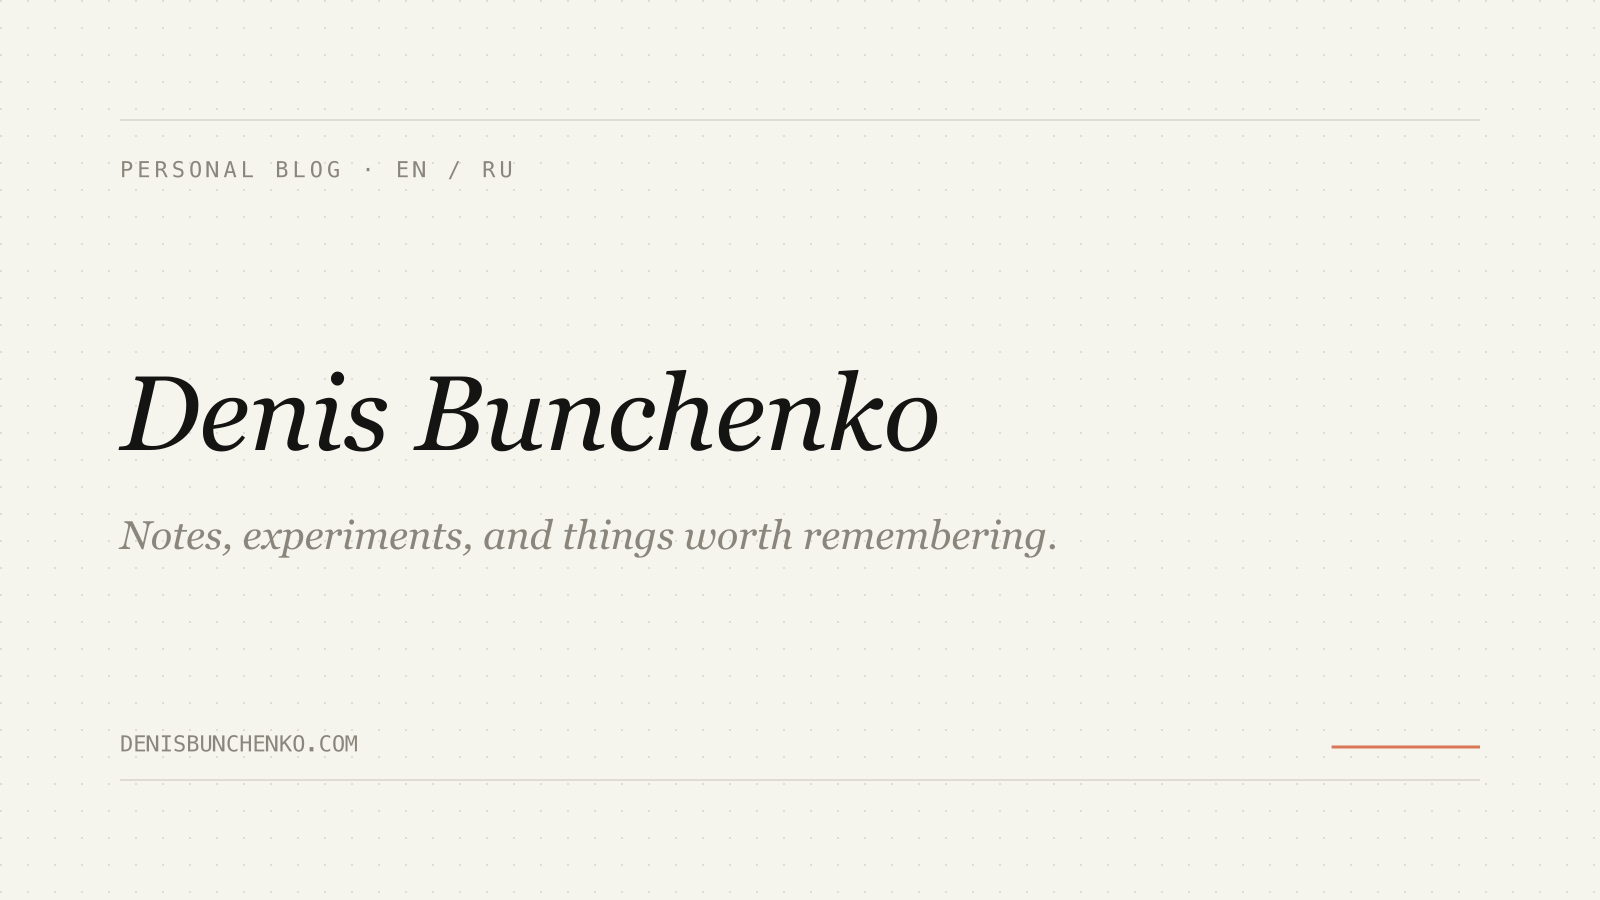
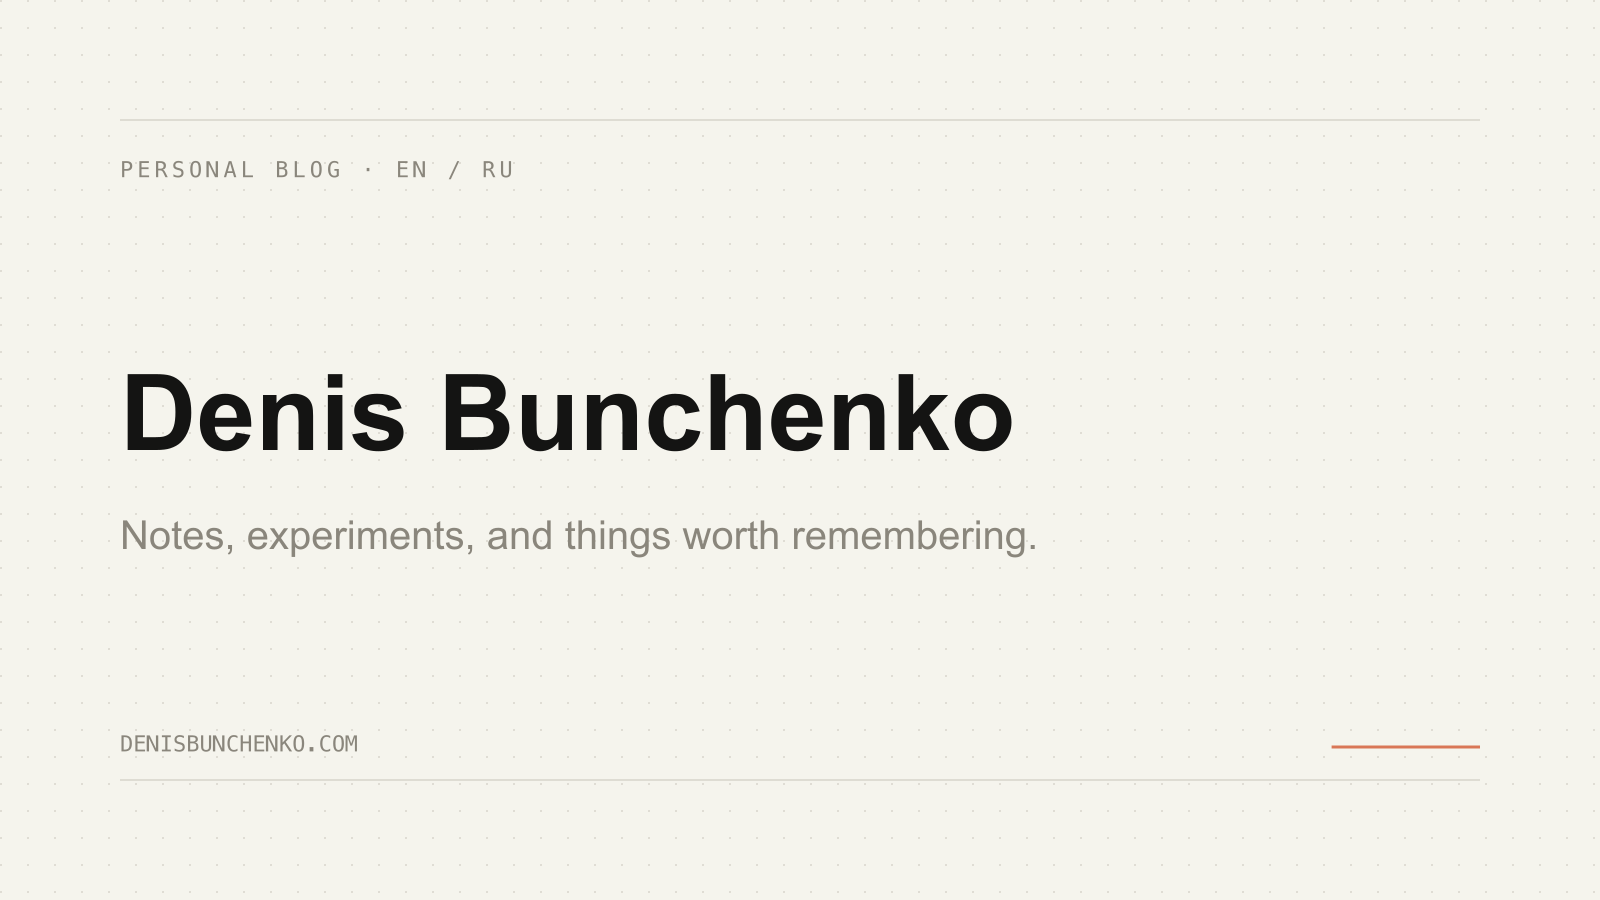
Modernize site typography

Changed region(s): [[0.0625, 0.4044, 0.6562, 0.4978], [0.0625, 0.56, 0.6562, 0.6222]]

diff --git a/src/styles/global.css b/src/styles/global.css
@@ -1,14 +1,13 @@
 @import './tailwind.config.css';
-@import '@fontsource/literata/300.css';
-@import '@fontsource/literata/300-italic.css';
-@import '@fontsource/literata/400.css';
-@import '@fontsource/literata/400-italic.css';
-@import '@fontsource/literata/500.css';
+@import '@fontsource/inter/400.css';
+@import '@fontsource/inter/400-italic.css';
+@import '@fontsource/inter/500.css';
+@import '@fontsource/inter/600.css';
 @import '@fontsource/dm-mono/400.css';
 @import '@fontsource/dm-mono/500.css';
 
 :root {
-  --font-serif: 'Literata', Georgia, serif;
+  --font-sans: 'Inter', ui-sans-serif, -apple-system, BlinkMacSystemFont, 'Segoe UI', sans-serif;
   --font-mono: 'DM Mono', ui-monospace, monospace;
   --base-50: #f5f4ed;
   --base-100: #eceae2;
@@ -54,7 +53,7 @@ body {
   background-color: var(--background);
   background-image: radial-gradient(circle, var(--dot-grid) 1px, transparent 1px);
   background-size: 20px 20px;
-  font-family: var(--font-serif, Literata, Georgia, serif);
+  font-family: var(--font-sans, sans-serif);
   font-size: 16px;
   line-height: 1.6;
 }
@@ -107,7 +106,8 @@ h2,
 h3,
 h4 {
   margin-top: 0;
-  font-weight: 400;
+  font-weight: 600;
+  letter-spacing: -0.025em;
   line-height: 1.2;
   text-wrap: balance;
 }
@@ -172,7 +172,8 @@ textarea {
 .site-title {
   flex: 0 0 auto;
   font-size: 1rem;
-  font-style: italic;
+  font-weight: 600;
+  letter-spacing: -0.02em;
   text-decoration: none;
 }
 
@@ -307,9 +308,8 @@ textarea {
 .page-heading h1 {
   margin: 0;
   font-size: clamp(2.25rem, 8vw, 3.4rem);
-  font-style: italic;
-  font-weight: 300;
-  letter-spacing: -0.035em;
+  font-weight: 600;
+  letter-spacing: -0.045em;
 }
 
 .page-intro .lead {
@@ -317,8 +317,7 @@ textarea {
   margin: 0;
   color: var(--muted-foreground);
   font-size: 1rem;
-  font-style: italic;
-  font-weight: 300;
+  font-weight: 400;
   line-height: 1.7;
 }
 
@@ -411,10 +410,6 @@ textarea {
   background: color-mix(in srgb, var(--paper-deep) 60%, transparent);
 }
 
-.ask-ai-copy p:first-child {
-  font-style: italic;
-}
-
 .ask-ai-copy .annotation {
   margin: 28px 0 0;
   line-height: 1.5;
@@ -501,7 +496,7 @@ textarea {
 .chip-list:not(.chip-list-small) .taxonomy-link {
   padding: 10px 0;
   border-bottom: 1px solid var(--border);
-  font-family: var(--font-serif, serif);
+  font-family: var(--font-sans, sans-serif);
   font-size: 1.15rem;
 }
 
@@ -520,15 +515,13 @@ textarea {
 .error-content h1 {
   margin-bottom: 20px;
   font-size: clamp(3rem, 12vw, 6rem);
-  font-style: italic;
-  font-weight: 300;
-  letter-spacing: -0.05em;
+  font-weight: 600;
+  letter-spacing: -0.06em;
 }
 
 .error-content .lead {
   color: var(--muted-foreground);
   font-size: 1.05rem;
-  font-style: italic;
 }
 
 .error-path {

diff --git a/scripts/generateBrandAssets.js b/scripts/generateBrandAssets.js
@@ -24,7 +24,7 @@ function monogramSvg(size, background = 'transparent') {
   return Buffer.from(`
     <svg xmlns="http://www.w3.org/2000/svg" width="${size}" height="${size}" viewBox="0 0 ${size} ${size}">
       <rect width="${size}" height="${size}" rx="${Math.round(size * 0.08)}" fill="${background}"/>
-      <text x="50%" y="48%" fill="${ink}" font-family="Georgia, serif" font-size="${fontSize}" font-style="italic" text-anchor="middle" dominant-baseline="middle">${glyph}</text>
+      <text x="50%" y="48%" fill="${ink}" font-family="Arial, Helvetica, sans-serif" font-size="${fontSize}" font-weight="600" text-anchor="middle" dominant-baseline="middle">${glyph}</text>
       <line x1="${Math.round(size * 0.25)}" y1="${Math.round(size * 0.76)}" x2="${Math.round(size * 0.75)}" y2="${Math.round(size * 0.76)}" stroke="${clay}" stroke-width="${lineWidth}"/>
     </svg>
   `);
@@ -76,8 +76,8 @@ function socialCardSvg(width, height) {
       <rect width="${width}" height="${height}" fill="url(#dots)"/>
       <line x1="${margin}" y1="${margin}" x2="${width - margin}" y2="${margin}" stroke="${border}"/>
       <text x="${margin}" y="${margin + metaSize * 2.6}" fill="${muted}" font-family="monospace" font-size="${metaSize}" letter-spacing="${Math.round(metaSize * 0.16)}">PERSONAL BLOG · EN / RU</text>
-      <text x="${margin}" y="${Math.round(height * 0.5)}" fill="${ink}" font-family="Georgia, serif" font-size="${titleSize}" font-style="italic">Denis Bunchenko</text>
-      <text x="${margin}" y="${Math.round(height * 0.61)}" fill="${muted}" font-family="Georgia, serif" font-size="${subtitleSize}" font-style="italic">Notes, experiments, and things worth remembering.</text>
+      <text x="${margin}" y="${Math.round(height * 0.5)}" fill="${ink}" font-family="Arial, Helvetica, sans-serif" font-size="${titleSize}" font-weight="600">Denis Bunchenko</text>
+      <text x="${margin}" y="${Math.round(height * 0.61)}" fill="${muted}" font-family="Arial, Helvetica, sans-serif" font-size="${subtitleSize}">Notes, experiments, and things worth remembering.</text>
       <line x1="${margin}" y1="${height - margin}" x2="${width - margin}" y2="${height - margin}" stroke="${border}"/>
       <text x="${margin}" y="${height - margin - metaSize * 1.3}" fill="${muted}" font-family="monospace" font-size="${metaSize}">DENISBUNCHENKO.COM</text>
       <line x1="${width - margin - titleSize * 1.4}" y1="${height - margin - metaSize * 1.5}" x2="${width - margin}" y2="${height - margin - metaSize * 1.5}" stroke="${clay}" stroke-width="${Math.max(2, Math.round(width / 500))}"/>

diff --git a/src/styles/markdown.css b/src/styles/markdown.css
@@ -1,6 +1,6 @@
 .markdown-content {
   max-width: 68ch;
-  font-family: var(--font-serif, Literata, Georgia, serif);
+  font-family: var(--font-sans, sans-serif);
   font-size: 1.04rem;
   line-height: 1.82;
 }
@@ -18,8 +18,8 @@
 .markdown-content h4 {
   margin-top: 2.4em;
   margin-bottom: 0.75em;
-  font-family: var(--font-serif, Literata, Georgia, serif);
-  font-weight: 400;
+  font-family: var(--font-sans, sans-serif);
+  font-weight: 600;
   letter-spacing: -0.02em;
 }
 
@@ -29,7 +29,6 @@
 
 .markdown-content h3 {
   font-size: 1.35rem;
-  font-style: italic;
 }
 
 .markdown-content h4 {

diff --git a/src/styles/blog.css b/src/styles/blog.css
@@ -56,7 +56,6 @@
   margin: 5px 0 0;
   color: var(--muted-foreground);
   font-size: 0.9rem;
-  font-style: italic;
   line-height: 1.55;
 }
 
@@ -168,9 +167,8 @@
 .article-heading h1 {
   margin-bottom: 18px;
   font-size: clamp(2.4rem, 8vw, 4.6rem);
-  font-style: italic;
-  font-weight: 300;
-  letter-spacing: -0.045em;
+  font-weight: 600;
+  letter-spacing: -0.055em;
   line-height: 1.08;
 }
 
@@ -179,7 +177,6 @@
   margin: 0;
   color: var(--muted-foreground);
   font-size: clamp(1rem, 2.2vw, 1.2rem);
-  font-style: italic;
   line-height: 1.65;
 }
 

diff --git a/.ai/PLAN.md b/.ai/PLAN.md
@@ -15,7 +15,7 @@
 - [x] Use “Denis Bunchenko” as the site name and “Personal blog of Denis Bunchenko” as the initial fallback description.
 - [x] Use `https://denisbunchenko.com` as the canonical production URL.
 - [x] Use Denis Bunchenko as the public author and publisher, linked to the canonical home page.
-- [x] Use Patrika's warm paper palette, dot grid, serif/mono typography, and fixed light theme.
+- [x] Use Patrika's warm paper palette and dot grid with modern sans/mono typography and a fixed light theme.
 - [x] Keep the complete blog feature set, including categories, tags, social sharing, reading time, table of contents, pagination, RSS, and article metadata.
 - [x] Keep one matching English/Russian example-post pair and remove the other demo posts.
 - [x] Create an editorial monogram favicon/logo that matches the site.
@@ -49,6 +49,7 @@
 
 ## Follow-up enhancements
 
+- [x] Modernize the primary typography with Inter while retaining DM Mono for metadata and code.
 - [x] Restore a localized, provider-neutral “Ask AI about Denis” section backed by `/llms.txt`, without restoring the larger WebMCP demo.
 - [x] Restyle the English and Russian 404 routes as quiet editorial error pages with clear recovery actions and Netlify fallbacks.
 - [x] Harden supported Node versions, preview metadata, language switching, author overrides, taxonomy slugs, external links, dependencies, and continuous integration after the repository audit.
